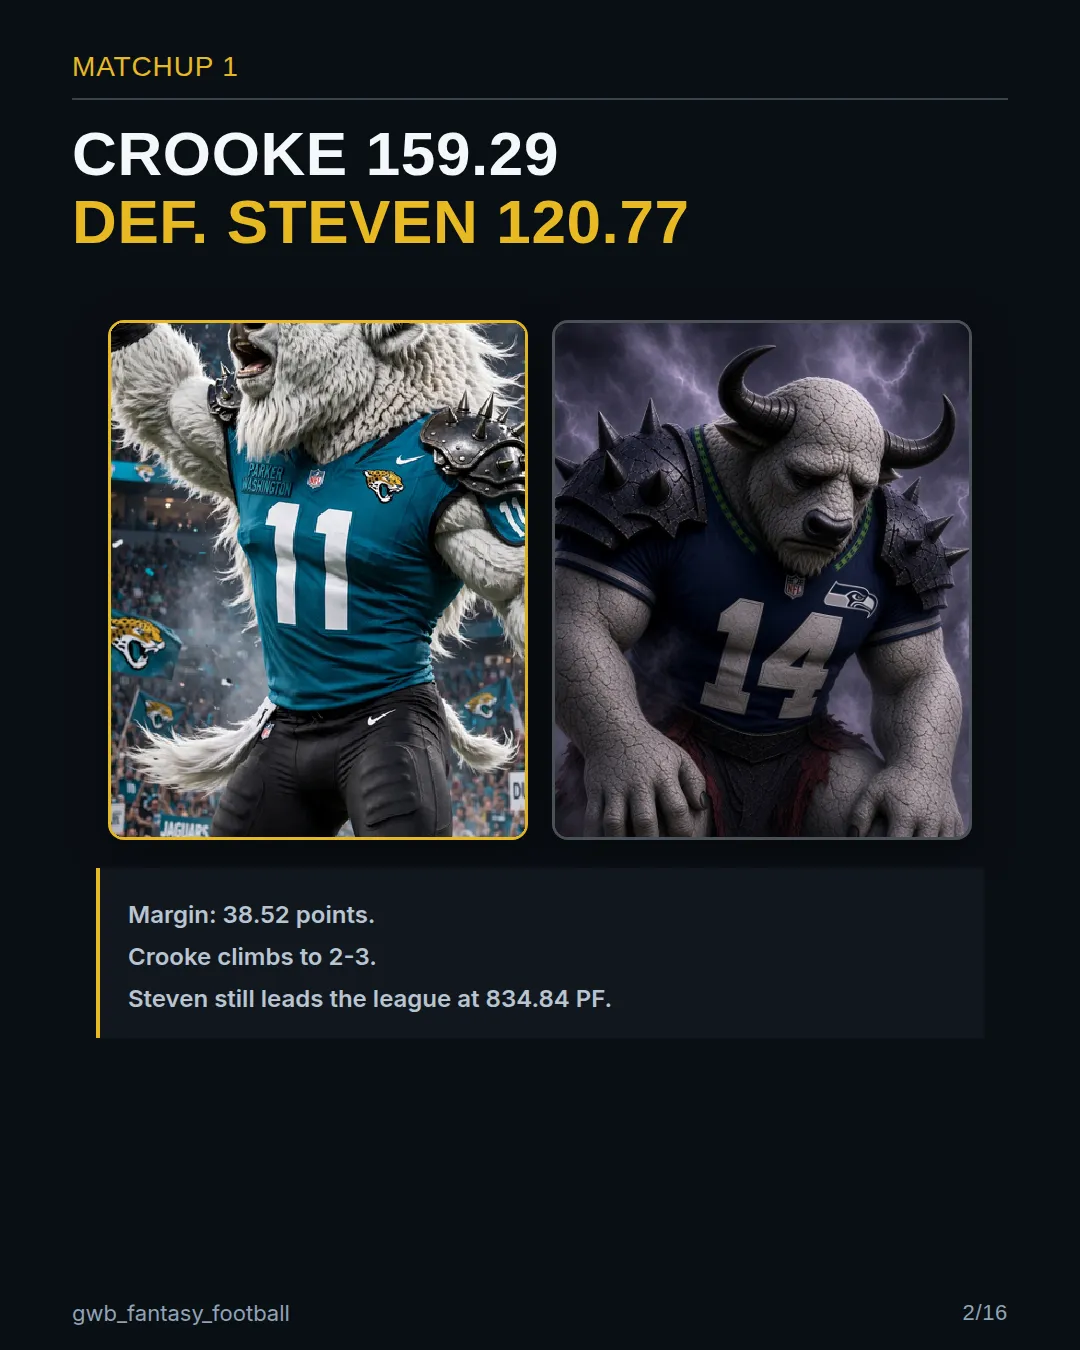
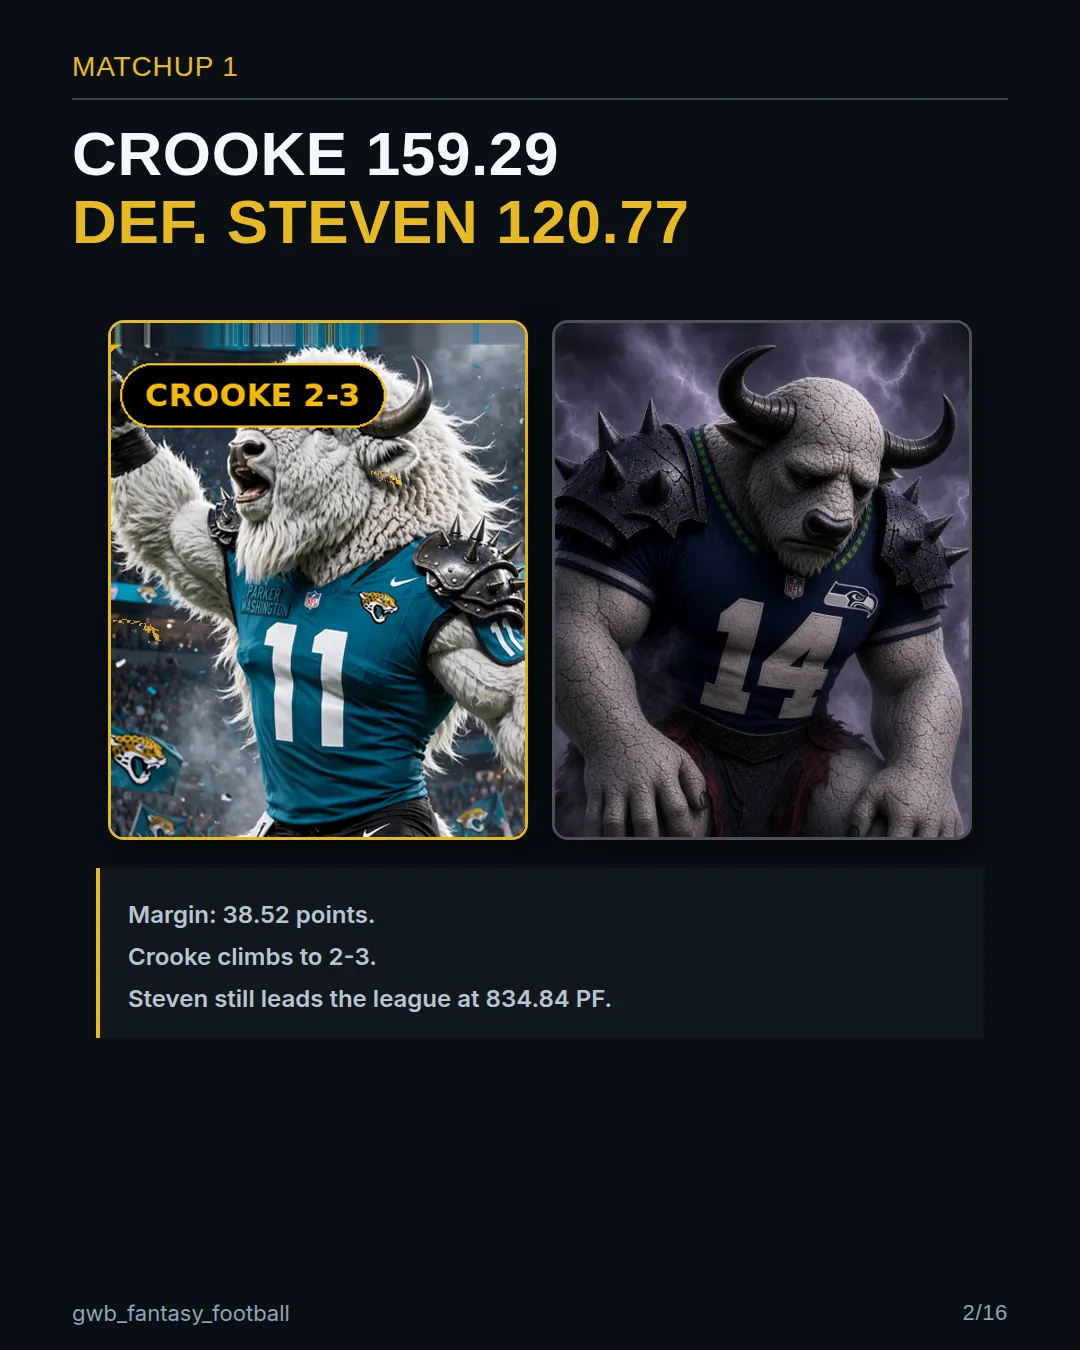
GWB: fit Crooke's full head on Week 5 slide 02
Scale the results-w5-m1 winner so the horn, eyes, and JAX #11 sit in the left card with a little headroom, instead of cropping the head at the mouth.

Changed region(s): [[0.0917, 0.2178, 0.4889, 0.6222]]

diff --git a/apps/gwb/scripts/w5-report-deck/output/.tmp-w5-slide-02.html b/apps/gwb/scripts/w5-report-deck/output/.tmp-w5-slide-02.html
@@ -92,7 +92,7 @@ body {
     <h1 class="title-split anton">Crooke 159.29<br/><span class="gold anton">DEF. STEVEN 120.77</span></h1>
   </div>
   <div class="dual-cards">
-    <div class="card"><img src="file:///workspace/apps/gwb/scripts/w5-report-deck/assets/w5-slide-02-winner.png" alt=""/></div>
+    <div class="card"><img class="fit" src="file:///workspace/apps/gwb/scripts/w5-report-deck/assets/w5-slide-02-winner.png" alt=""/></div>
     <div class="card dim"><img src="file:///workspace/apps/gwb/scripts/w5-result-cards/assets/results-w5-m1-loser.jpg" alt=""/></div>
   </div>
   <div class="info-stack inter-semibold"><p>Margin: 38.52 points.</p><p>Crooke climbs to 2-3.</p><p>Steven still leads the league at 834.84 PF.</p></div>
